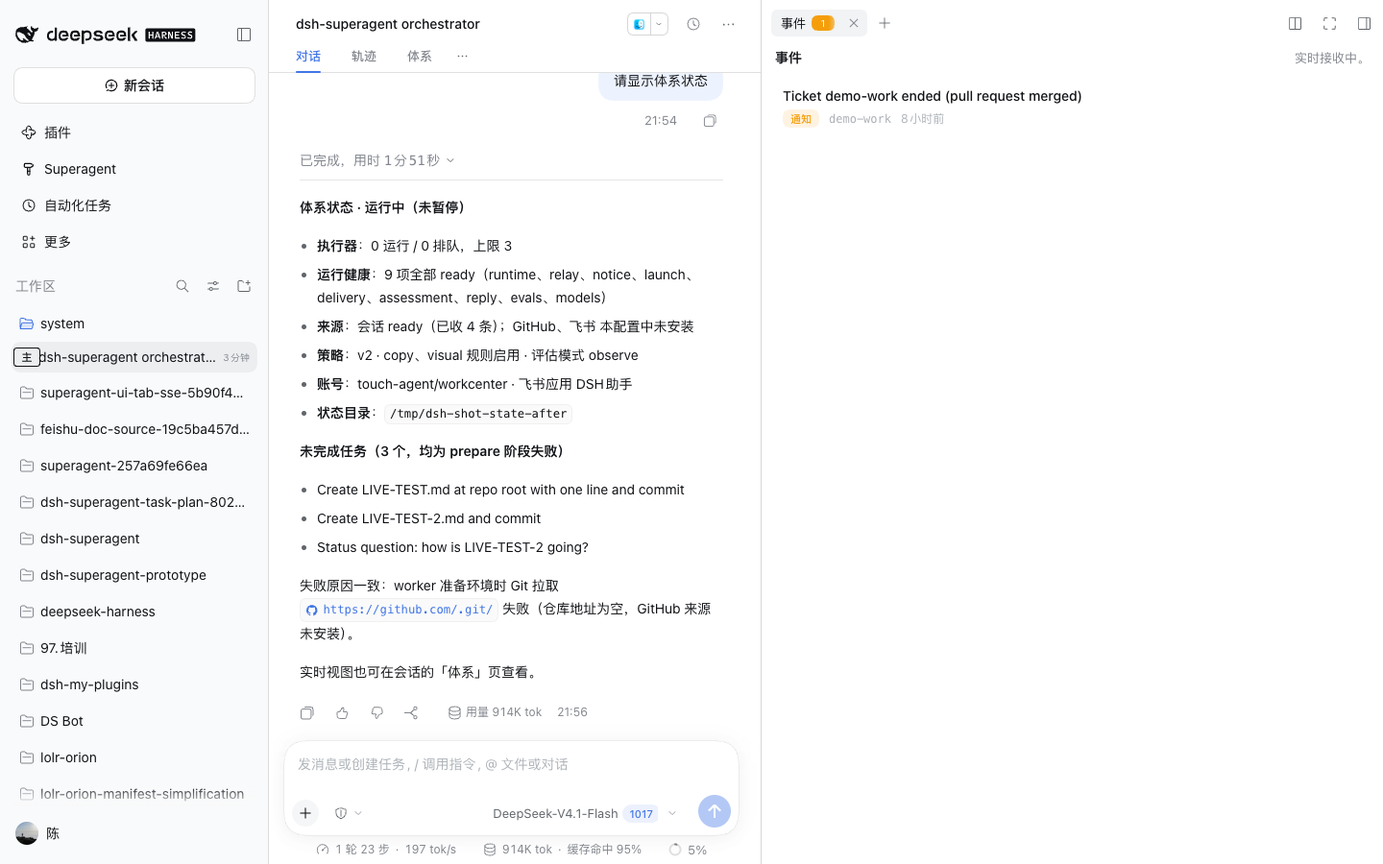
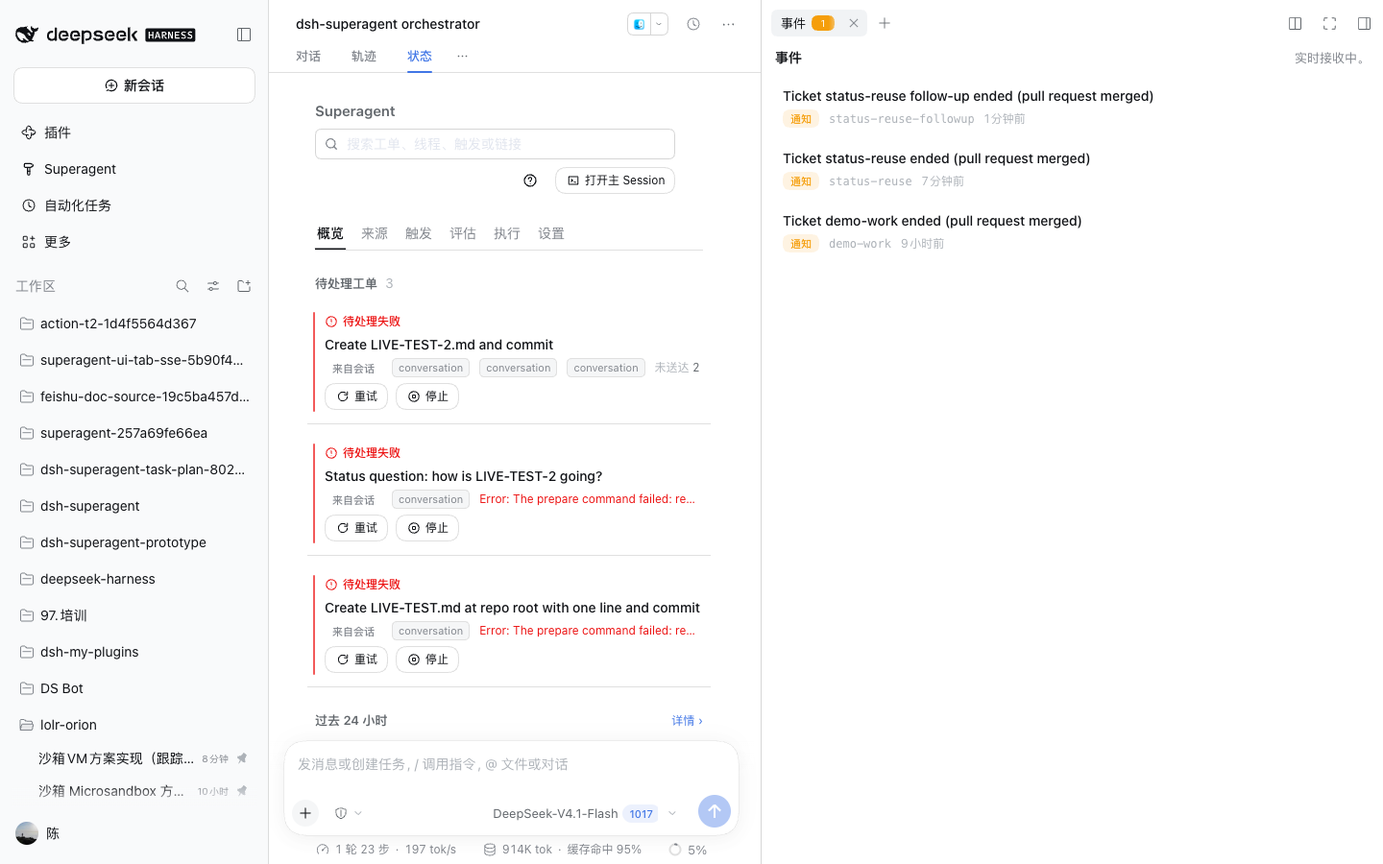
feat(ui): reuse the management page in the Status view
Rename the main-Session 体系 tab to 状态 and mount the existing
management page instead of a reduced read-only copy, so the
Conversation and the management panel cannot drift apart.

diff --git a/packages/dsh/src/client/system.tsx b/packages/dsh/src/client/system.tsx
@@ -1,24 +1,19 @@
 /**
- * Main-Session surfaces: the New Session entry that opens the existing main Session, the "主" row marker, the read-only
- * System view inside the Conversation, and the right Events tab with its unread title, automatic first open and rows.
- * All data is read from the management API; nothing here mutates a Ticket.
+ * Main-Session surfaces: the New Session entry that opens the existing main Session, the "主" row marker, the "状态"
+ * Conversation view that reuses the management page, and the right Events tab with its unread title, automatic first open
+ * and rows. All data comes from the management API the panel already uses.
  */
-import { useEffect, useState } from 'react'
+import { useEffect, useState, type ReactNode } from 'react'
 import type { ActivityRecord } from '../app/activity.ts'
-import type { Call, TicketRow } from './api.ts'
-import { usePoll } from './api.ts'
 import type { ActivityFeedClient, ActivitySnapshot } from './activity-feed.ts'
 import { useActivityFeed } from './activity-feed.ts'
-import { Button, Icon, Tag, StateDot, type DotState } from './controls.tsx'
+import { Button, Icon, Tag } from './controls.tsx'
 import type { MasterStore } from './master.ts'
 import { useMaster } from './master.ts'
-import { ticketMark } from './marks.ts'
 import type { Route } from './route.ts'
-import { healthText, valueLabel, when, fullTime, type T } from './text.ts'
-import { StageMark, Section } from './widgets.tsx'
+import { when, fullTime, type T } from './text.ts'
 
 const LEVEL_TONE = { quiet: 'outline', feed: 'info', notice: 'warning' } as const
-const HEALTH_DOT: Record<string, DotState> = { ready: 'done', starting: 'ongoing', paused: 'warning', error: 'error' }
 const openTicket = (id: string): Route => ({ page: 'execution', id })
 const openThread = (id: string): Route => ({ page: 'trigger', id })
 
@@ -114,70 +109,15 @@ export function EventsBridge({ activity, master, autoOpen, open }: { activity: A
   }, [autoOpen, open, sessionId, snapshot.unread])
   return null
 }
-function HealthLine({ name, state, detail, t }: { name: string; state: string; detail: string; t: T }) {
-  return <li className="dt-row dt-health" data-state={state}>
-    <StateDot state={HEALTH_DOT[state] ?? 'idle'} />
-    <span className="dt-health-name">{valueLabel(t, 'health', name)}</span>
-    <span className="dt-health-detail">{detail}</span>
-  </li>
-}
-function SystemTicket({ ticket, t, onOpen }: { ticket: TicketRow; t: T; onOpen: (route: Route) => void }) {
-  const status = ticketMark(t, ticket)
-  return <li className="dt-row dt-link dt-ticket dt-system-ticket" data-state={status.dot}>
-    <div className="dt-ticket-stage"><StageMark state={status.dot} icon={status.icon} label={status.label} /></div>
-    <div className="dt-ticket-body">
-      <div className="dt-row-title"><button type="button" className="dt-open" onClick={() => onOpen(openTicket(ticket.id))}>
-        {ticket.title}</button></div>
-      <div className="dt-row-meta"><Time at={ticket.updatedAt} t={t} /></div>
-    </div>
-  </li>
-}
 /**
- * The "体系" Conversation view. It is read-only and only meaningful on the main Session: every other Session sees a short
- * explanation of where the System view lives. Data comes from the same `GET state`, `GET tickets` and `GET activity`
- * endpoints the management panel uses, so no second business rule lives here.
+ * The "状态" Conversation view: on the main Session it mounts the existing management page rather than a second, partial
+ * management page; every other Session sees a short explanation of where the management page lives.
  */
-export function SystemView({ t, call, sessionId, master, activity, onOpen }: { t: T; call: Call; sessionId: string
-  master: MasterStore; activity: ActivityFeedClient; onOpen: (route: Route) => void }) {
+export function SystemView({ t, sessionId, master, children }: { t: T; sessionId: string; master: MasterStore
+  children: ReactNode }) {
   const identity = useMaster(master)
-  const state = usePoll(() => call('GET state'), [call], 5_000)
-  const tickets = usePoll(() => call('GET tickets', { query: { state: 'open', limit: 20 } }), [call], 5_000)
-  const feed = useActivityFeed(activity)
-  if (identity.masterId !== undefined && identity.masterId !== '' && identity.masterId !== sessionId) {
-    return <div className="dt-system-view"><p className="dt-hint">{t('systemOnlyMaster')}</p></div>
-  }
-  const health = Object.entries(state.data?.health ?? {}).sort(([left], [right]) => left.localeCompare(right))
-  const load = state.data?.load
-  return <div className="dt-system-view">
-    <header className="dt-system-head">
-      <div>
-        <h2 className="dt-system-title">{t('systemTitle')}</h2>
-        <p className="dt-hint">{t('systemIntro')}</p>
-      </div>
-      <Button variant="outline" size="sm" icon={<Icon name="external" size={14} />} onClick={() => onOpen({ page: 'overview' })}>
-        {t('systemOpenPanel')}</Button>
-    </header>
-    {state.error && <p className="dt-error" role="alert">{state.error.message}</p>}
-    <Section title={t('systemHealth')}>
-      {load && <div className="dt-stats">
-        <span className="dt-stat"><b>{load.running}</b>{t('executingLabel')}</span>
-        <span className="dt-stat"><b>{load.queued}</b>{t('queuedLabel')}</span>
-        <span className="dt-stat"><b>{load.maxWorkers}</b>{t('systemWorkers')}</span>
-        <span className="dt-stat"><b>{state.data?.paused ? t('yes') : t('no')}</b>{t('systemPaused')}</span>
-      </div>}
-      {health.length ? <ul className="dt-list dt-health-list">{health.map(([name, item]) => <HealthLine key={name} name={name}
-        state={item.state} detail={healthText(t, item)} t={t} />)}</ul> : <p className="dt-hint">{t('loading')}</p>}
-    </Section>
-    <Section title={t('systemTickets')} count={tickets.data?.items.length} action={<Button variant="ghost" size="sm"
-      onClick={() => onOpen({ page: 'execution' })}>{t('systemAllTickets')}</Button>}>
-      {tickets.data?.items.length ? <ul className="dt-list dt-system-tickets">{tickets.data.items.map(ticket => <SystemTicket
-        key={ticket.id} ticket={ticket} t={t} onOpen={onOpen} />)}</ul> : <p className="dt-hint">{tickets.error?.message
-        ?? (tickets.data ? t('systemNoTickets') : t('loading'))}</p>}
-    </Section>
-    <Section title={t('systemEvents')} action={<Button variant="ghost" size="sm" onClick={() => onOpen({ page: 'overview' })}>
-      {t('systemMoreEvents')}</Button>}>
-      <FeedHint snapshot={feed} t={t} />
-      <ActivityList items={feed.items.slice(0, 8)} t={t} onOpen={onOpen} empty={t('eventsEmpty')} />
-    </Section>
-  </div>
+  // Do not mount the management page for an ordinary Session while `masterId` is still unknown.
+  if (identity.masterId === undefined) return <div className="dt-system-view"><p className="dt-hint">{t('loading')}</p></div>
+  if (identity.masterId !== sessionId) return <div className="dt-system-view"><p className="dt-hint">{t('systemOnlyMaster')}</p></div>
+  return <div className="dt-status-page">{children}</div>
 }

diff --git a/packages/dsh/src/client/client.css b/packages/dsh/src/client/client.css
@@ -384,12 +384,11 @@ a.dt-btn, a.dt-btn:hover { text-decoration: none; }
 .dt-field-segmented { max-width: 240px; }
 .dt-master-badge { display: inline-flex; align-items: center; justify-content: center; min-width: 18px; height: 18px; padding: 0 4px; border: 0.5px solid var(--dsw-alias-brand-primary); border-radius: 4px; color: var(--dsw-alias-brand-primary); font-size: 11px; line-height: 18px; font-weight: 500; }
 .dt-master-attention { display: inline-flex; align-items: center; justify-content: center; width: 14px; height: 14px; margin-left: 4px; border-radius: 50%; background: var(--dsw-alias-state-error-primary); color: var(--dsw-alias-bg-layer-1); font-size: 10px; line-height: 14px; }
-.dt-system-view { box-sizing: border-box; height: 100%; overflow: auto; padding: 24px clamp(20px, 4vw, 40px) 48px; display: flex; flex-direction: column; gap: 20px; color: var(--dsw-alias-label-primary); }
+.dt-system-view { box-sizing: border-box; height: 100%; overflow: auto; padding: 24px clamp(20px, 4vw, 40px) 48px; color: var(--dsw-alias-label-primary); }
 .dt-system-view > * { width: 100%; max-width: 960px; margin: 0 auto; }
-.dt-system-head { display: flex; align-items: flex-start; justify-content: space-between; flex-wrap: wrap; gap: 8px 16px; }
-.dt-system-title { margin: 0 0 2px; font-size: 15px; line-height: 22px; font-weight: 600; }
-.dt-system-tickets { margin: 0; }
-.dt-system-ticket .dt-ticket-stage { padding-top: 1px; }
+/* The reused management page owns its scroll and padding; this wrapper only gives it the Conversation's height. */
+.dt-status-page { box-sizing: border-box; height: 100%; min-height: 0; }
+.dt-status-page > .dt-page { height: 100%; }
 .dt-events-tab { box-sizing: border-box; height: 100%; overflow: auto; padding: 12px 14px 24px; display: flex; flex-direction: column; gap: 10px; }
 .dt-events-head { display: flex; align-items: baseline; justify-content: space-between; gap: 8px; flex-wrap: wrap; }
 .dt-events-title { margin: 0; font-size: 14px; line-height: 20px; font-weight: 600; }
@@ -398,9 +397,4 @@ a.dt-btn, a.dt-btn:hover { text-decoration: none; }
 .dt-activity-list { margin: 0; }
 .dt-activity .dt-row-title { font-weight: 400; }
 .dt-activity[data-level='notice'] .dt-row-title { font-weight: 500; }
-.dt-health-list { margin: 0; }
-.dt-health { display: grid; grid-template-columns: 12px max-content minmax(0, 1fr); align-items: center; gap: 8px; padding: 6px 8px; border-bottom: 0.5px solid var(--dsw-alias-border-l3); }
-.dt-health:last-child { border-bottom: 0; }
-.dt-health-name { font-size: 12px; line-height: 18px; font-weight: 500; color: var(--dsw-alias-label-secondary); }
-.dt-health-detail { min-width: 0; font-size: 12px; line-height: 18px; color: var(--dsw-alias-label-caption); overflow-wrap: anywhere; }
 .dt-stat b { font-size: 14px; font-weight: 500; color: var(--dsw-alias-label-primary); font-variant-numeric: tabular-nums; }

diff --git a/packages/dsh/src/client/locales.ts b/packages/dsh/src/client/locales.ts
@@ -102,21 +102,10 @@ const TEXT = {
   openMaster: ['打开主 Session', 'Open main Session'],
   masterSession: ['主会话', 'Main Session'],
   masterBadge: ['主', 'Main'],
-  masterBadgeHint: ['这是每个进程唯一的主会话，体系视图与事件都跟随它。', 'The one main Session per process; the System view and Events follow it.'],
+  masterBadgeHint: ['这是每个进程唯一的主会话，状态页与事件都跟随它。', 'The one main Session per process; the Status page and Events follow it.'],
   masterEntryHint: ['打开已有的主会话，不新建会话。', 'Open the existing main Session instead of starting another.'],
-  systemTab: ['体系', 'System'],
-  systemTitle: ['体系', 'The system'],
-  systemIntro: ['整个体系的状态、工单与最近事件；只读，改动仍在管理页完成。', 'This system’s health, Tickets and recent events. Read-only; changes stay in the management panel.'],
-  systemOnlyMaster: ['体系视图只在主会话中显示；普通会话没有整个体系的上下文。', 'The System view is available in the main Session; an ordinary Session has no view of the whole system.'],
-  systemOpenPanel: ['打开管理页', 'Open management panel'],
-  systemHealth: ['运行健康', 'Runtime health'],
-  systemWorkers: ['执行器上限', 'Executor limit'],
-  systemPaused: ['已暂停', 'Paused'],
-  systemTickets: ['进行中的工单', 'Open Tickets'],
-  systemAllTickets: ['全部工单', 'All Tickets'],
-  systemNoTickets: ['暂无进行中的工单。', 'No open Tickets.'],
-  systemEvents: ['最近事件', 'Recent events'],
-  systemMoreEvents: ['查看全部事件', 'All events'],
+  systemTab: ['状态', 'Status'],
+  systemOnlyMaster: ['状态页只在主会话中显示；普通会话没有整个体系的上下文。', 'The Status page is available in the main Session; an ordinary Session has no view of the whole system.'],
   eventsTab: ['事件', 'Events'],
   eventsGuide: ['按时间查看体系里发生了什么，以及哪些工单在等人工决定。', 'Follow what happened in the system and which Tickets wait for a person.'],
   eventsUnread: ['{count} 条未读通知级事件', '{count} unread notice-level events'],

diff --git a/packages/dsh/src/client/index.tsx b/packages/dsh/src/client/index.tsx
@@ -1,6 +1,6 @@
 /**
  * Browser plugin entry point: the sidebar icon and management panel, the New Session main-Session entry, the in-Session
- * System view, the right Events tab with its unread title, and the Plugin Manager config view.
+ * Status view that reuses the management page, the right Events tab with its unread title, and the Plugin Manager config view.
  */
 import { useCallback, useEffect, useRef } from 'react'
 import type { Context } from '@deepseek-ai/cordis'
@@ -80,10 +80,10 @@ export function apply(ctx: ClientContext): void {
   // rc.5's row exposes a leading decoration; a trailing badge is not part of this host version.
   ctx.slots.inject('sidebar.session.row.leading', () => ctx.slots.register({ name: 'sidebar.session.row.leading', id: 'system-master', order: 10,
     locale: NS }, (props: { sessionId: string; t: T }) => <MasterBadge t={props.t} master={master} sessionId={props.sessionId} />))
-  // The in-Session System view; non-main Sessions render its explanation instead of the system.
+  // The in-Session Status view reuses the management page; non-main Sessions render its explanation instead.
   ctx.slots.inject('conversation.view', () => ctx.slots.register({ name: 'conversation.view', id: 'system', order: 20, locale: NS,
-    label: () => t('systemTab') }, (props: { sessionId: string; t: T }) => <SystemView t={props.t} call={call} sessionId={props.sessionId}
-    master={master} activity={activity} onOpen={openPanel} />))
+    label: () => t('systemTab') }, (props: { sessionId: string; t: T }) => <SystemView t={props.t} sessionId={props.sessionId}
+    master={master}><Mounted ctx={ctx} t={props.t} openSession={openSession} /></SystemView>))
   // The right Events tab type: the host owns closing, expanding, floating and docking.
   try {
     ctx.effect(() => ctx.get('sidebarRightTabs')?.register({ id: EVENTS_ID, kind: EVENTS_KIND, title: () => t('eventsTab'),

diff --git a/tests/client.spec.tsx b/tests/client.spec.tsx
@@ -177,17 +177,18 @@ it('marks the main Session row and leaves every other row unmarked', async () =>
   expect(other.container.querySelector('.dt-master-badge')).toBeNull()
   other.dispose()
 })
-it('renders the read-only System view only for the main Session', async () => {
+it('reuses the management page only for the main Session', async () => {
   serve()
   const { entries } = fixture([])
   const system = entries.find(entry => entry.options.name === 'conversation.view')!
+  expect(system.options.label?.()).toBe(zh.systemTab)
   const master = await render(system, { sessionId: 'master', t })
-  expect(master.container.textContent).toContain(zh.systemTitle)
-  expect(master.container.textContent).toContain(zh.systemHealth)
+  expect(master.container.textContent).toContain(zh.title)
+  expect(master.container.textContent).toContain(zh['tab.overview'])
   master.dispose()
   const other = await render(system, { sessionId: 'other', t })
   expect(other.container.textContent).toContain(zh.systemOnlyMaster)
-  expect(other.container.textContent).not.toContain(zh.systemHealth)
+  expect(other.container.textContent).not.toContain(zh.title)
   other.dispose()
 })
 it('shows the unread notice count in the Events tab title and clears it when the tab opens', async () => {

diff --git a/packages/dsh/src/client/activity-feed.ts b/packages/dsh/src/client/activity-feed.ts
@@ -1,6 +1,6 @@
 /**
  * Same-origin reader for the graded activity feed: one initial page, then Server-Sent Events with a polling fallback,
- * deduplicated by sequence and shared by the right Events tab and the in-Session System view. The unread cursor is the
+ * deduplicated by sequence and shared by the right Events tab and the in-Session Status page. The unread cursor is the
  * last notice-level sequence a person saw; opening the Events tab marks the head seen and persists it per browser.
  */
 import { useEffect, useSyncExternalStore } from 'react'

diff --git a/packages/dsh/src/client/master.ts b/packages/dsh/src/client/master.ts
@@ -1,4 +1,4 @@
-/** Shared read-only main-Session identity, so the entry, row marker, System view and Events tab agree on `masterId`. */
+/** Shared read-only main-Session identity, so the entry, row marker, Status page and Events tab agree on `masterId`. */
 import { useEffect, useSyncExternalStore } from 'react'
 import type { Call } from './api.ts'
 

diff --git a/SESSION-ENTRY.zh.md b/SESSION-ENTRY.zh.md
@@ -14,7 +14,7 @@
 | 需求 | 宿主能力 | 结论 |
 | --- | --- | --- |
 | 新建时选「主会话 / 普通会话」 | `conversation.hero.options`（list，New Session 行右侧）+ `ctx.uiWorkspace.openSession/startSession` | **可做**：选项打开既有主会话，不新建；普通会话走宿主默认新建 |
-| 主会话 tab 内看整个体系 | `conversation.view`（list，会话内 tab）+ 现成管理 API/面板 | **可做**：只对主会话注册「体系」视图 |
+| 主会话 tab 内看整个体系 | `conversation.view`（list，会话内 tab）+ 现成管理 API/面板 | **可做**：只对主会话注册「状态」页，直接挂载现成管理页 |
 | 右侧实时事件与工单状态 | `sidebar.right.pane.tab` + `.title` + `ctx.sidebarRight.openTab/close/toggleExpanded` | **可做**：注册「事件」tab，宿主自带关闭/展开 |
 | 服务端推送 | `ctx.webServer.register`（`exact` 路由，handler 持有响应） | **可做**：SSE；首版用 5 秒轮询即可 |
 
@@ -55,7 +55,7 @@
 ### 2.2 会话内 tab
 
 - `conversation.view`：`kind: 'list'`，会话级；注册后宿主的 ViewTab 由 `{id,label}` 投影，正文由 slot entry 渲染。已有 `ui-chat`、`ui-trajectory` 两个第三方视图先例。
-- 视图组件能读到当前 `sessionId`；据此只对 `masterId` 渲染体系内容，其他会话显示一句说明或不显示。
+- 视图组件能读到当前 `sessionId`；据此只对 `masterId` 渲染状态内容，其他会话显示一句说明或不显示。
 
 **限制**：tab 属于「会话」，不是「主面板」；不能把现有主面板原样嵌进去，需要复用它的数据/组件而不是整个入口。
 
@@ -87,7 +87,7 @@
 | --- | --- |
 | `conversation.hero.options` 不可用 | 侧栏会话行「主」标记 + 主面板顶部「打开主会话」按钮 |
 | `conversation.view` 不可用 | 保留独立主面板；主会话页内只放一个跳转按钮 |
-| `sidebar.right.pane.tab` 不可用 | 在「体系」视图内用右侧分栏自绘事件列表（仍可关闭/展开） |
+| `sidebar.right.pane.tab` 不可用 | 在「状态」页内用右侧分栏自绘事件列表（仍可关闭/展开） |
 | SSE 不可用 | `GET activity?after=` 5 秒轮询；断线重连后按 `next` 补拉，`next < latest` 时继续拉 |
 | 主会话已存在于旧工作目录 | 不强行迁移；保留原 cwd，新建的主会话才用新根（DSH 会话持久化 cwd） |
 
@@ -112,19 +112,19 @@
 
 ### 3.2 主会话入口
 
-1. 启动时确保主会话存在（已有逻辑），并把它作为「体系入口」。
+1. 启动时确保主会话存在（已有逻辑），并把它作为「状态入口」。
 2. `conversation.hero.options` 注册一项「主会话」：点击 `ctx.uiWorkspace.openSession(masterId)`；若主会话尚未就绪，先显示禁用态。
 3. `sidebar.session.row.trailing` 在主会话行显示「主」标记，普通会话不显示。
 4. 主面板保留「打开主会话」按钮，作为宿主 slot 失效时的回退。
 5. 「普通会话」不新增入口，沿用宿主 New Session；插件不干预普通会话的 preset。
 
-### 3.3 主会话页内「体系」视图
+### 3.3 主会话页内「状态」页
 
-- `conversation.view` 注册 `{id:'system', label:{zh:'体系',en:'System'}}`。
-- 内容分三块：运行健康（Overview）、工单列表（复用 `GET tickets` 的紧凑行）、最近事件（`GET activity?level=feed`）。
-- 只读；写操作仍然回到既有主面板/设置页，避免两套交互。
-- 视图只在 `sessionId === masterId` 时渲染；其他会话显示「这是普通会话，体系视图只在主会话可用」。
-- 实现上抽一个 `SystemView` 组件，主面板与页内视图共用数据 hooks，不复制业务规则。
+- `conversation.view` 注册 `{id:'system', label:{zh:'状态',en:'Status'}}`。
+- 内容直接挂载现成管理页（`App`）：同一套 header、搜索、概览/来源/触发/评估/执行/设置和操作，不另做一份精简视图，也不复制业务规则。
+- 页内与管理页是同一实现；写操作与面板一致，不再有「页内只读」的第二套交互。
+- 只在 `sessionId === masterId` 时渲染；其他会话显示「这是普通会话，状态页只在主会话可用」。
+- `SystemView` 只负责主会话判断和外层高度，内容仍由管理页组件提供。
 
 ### 3.4 右侧「事件」栏
 
@@ -181,7 +181,7 @@ domain event ──► ActivityLog（全部入库）
 | S-02 | 单一通知预算：`endCoveredBy` 接入 `eventNotice`，更新报告相关测试 | 0.5 | **本 PR 完成** |
 | S-03 | 目录分级：`systemRoot`、默认 `<stateDir>/system/work`、启动创建、设置文案/文档 | 1 | **本 PR 完成** |
 | S-04 | 主会话入口：hero option + 会话行标记 + `openSession` + 回退按钮 | 2 | **本 PR 完成** |
-| S-05 | 页内「体系」视图：`conversation.view`、仅主会话、复用数据 hooks | 3 | **本 PR 完成** |
+| S-05 | 页内「状态」页：`conversation.view`、仅主会话、直接复用管理页 | 3 | **本 PR 完成** |
 | S-06 | 右侧「事件」栏：tab + 未读标题 + 轮询 + 自动打开一次 | 3 | **本 PR 完成** |
 | S-07 | SSE 推送：exact 路由、`Last-Event-ID` 补拉、心跳、同源校验 | 1.5 | **本 PR 完成** |
 | S-08 | 端到端与宿主版本矩阵：slot 存在性守卫、截图/演示、操作手册 | 2 | **本 PR 完成**（截图见 `docs/images/session-entry/`） |
@@ -196,7 +196,7 @@ domain event ──► ActivityLog（全部入库）
 | --- | --- | --- |
 | `conversation.hero.options` | 新建会话行右侧「主会话」按钮 | `slots.inject` 静默跳过；面板头部「打开主会话」回退按钮仍在 |
 | `sidebar.session.row.leading` | 会话行「主」标记 | 无标记；主会话仍可从入口打开 |
-| `conversation.view` | 主会话页内「体系」只读视图 | 管理面板 Overview 继续提供同一数据 |
+| `conversation.view` | 主会话页内「状态」页，直接复用管理页 | 管理面板仍提供同一页面 |
 | `sidebar.right.pane.tab` / `.title` | 右侧「事件」tab 与未读标题 | 无事件栏；页内视图仍显示最近事件 |
 | `conversation.session.header.utilities` | 无渲染的自动打开桥 | 不自动打开，仍可从右侧栏手动打开 |
 
@@ -213,7 +213,7 @@ SSE 是 `GET /orchestrator/api/activity/stream` 的 exact 路由：`Last-Event-I
 ## 5. 验收
 
 1. **入口**：从 New Session 选「主会话」打开的是既有 `masterId`；连续点两次不产生第二个 router 会话；普通会话仍可正常新建。
-2. **页内视图**：主会话有「体系」tab，能看到健康/工单/最近事件；普通会话没有该内容或显示说明。
+2. **页内视图**：主会话有「状态」tab，直接显示完整 Superagent 管理页（概览/来源/触发/评估/执行/设置）；普通会话没有该内容或显示说明。
 3. **右侧栏**：主会话右侧出现「事件」tab，可关闭、可展开；新 `notice` 事件使未读数 +1；打开后清零。
 4. **推送**：轮询模式下 5 秒内可见新事件；断线后按 `next` 补拉不漏（`next === latest` 才算追平）；SSE 模式同样。
 5. **目录**：新装默认主会话 cwd 为 `<stateDir>/system`，新工单目录为 `<stateDir>/system/work/<name>`；已有工单目录不变；显式根覆盖生效。
@@ -242,6 +242,6 @@ SSE 是 `GET /orchestrator/api/activity/stream` 的 exact 路由：`Last-Event-I
 - `packages/dsh/src/app/assembly.ts`：emit 时入库；`eventNotice` 用预算。
 - `packages/dsh/src/app/http.ts`、`api.ts`：`GET activity` 与 SSE `GET activity/stream`。
 - `packages/dsh/src/app/execution-environment.ts`、`runtime.ts`：`systemRoot`、主会话 cwd、默认工单根。
-- `packages/dsh/src/client/{index.tsx,system.tsx,activity-feed.ts,master.ts,panel.ts}`：主会话入口、体系视图、事件栏、SSE/轮询客户端。
+- `packages/dsh/src/client/{index.tsx,system.tsx,activity-feed.ts,master.ts,panel.ts}`：主会话入口、复用管理页的状态视图、事件栏、SSE/轮询客户端。
 - `tests/activity.spec.ts`、`tests/http.spec.ts`、`tests/activity-feed.spec.ts`、`tests/client.spec.tsx` 与报告/目录/迁移相关断言。
 - 本文与 `TASK-PLAN.zh.md` §10.2、`docs/003`、`docs/005`、`docs/006`、`docs/007`。

diff --git a/docs/005-panel.md b/docs/005-panel.md
@@ -43,11 +43,11 @@ Only the latest message from the person is dispatched. A message that arrived fr
 
 ### Main-Session surfaces
 
-The main Session is the process's single router Session. Four surfaces make it the entry to the system without turning the Conversation into a second management panel:
+The main Session is the process's single router Session. Four surfaces make it the entry to the system; the Status tab reuses the management page itself so the two cannot drift apart:
 
 - **New Session → Main Session.** The right side of the New Session composer offers **Main Session** (主会话), which selects the existing `masterId` through the Workspace. It never starts another router Session; using it twice returns to the same Conversation. If the Session catalog is not ready, the control disables itself and reports why. The management panel keeps its own **Open main Session** header button as a fallback.
 - **The main Session row** carries a compact **Main** (主) badge in its leading decoration. DSH `0.2.1-rc.5` has no trailing decoration on Session rows, so the badge is leading rather than trailing.
-- **System** (体系) is a tab inside the main Conversation. It is read-only and shows runtime health, open Tickets and the latest graded events, each linking into the matching management page. Opening a link selects the management panel at that route. Any other Session shows one sentence explaining that the System view belongs to the main Session.
+- **Status** (状态) is a tab inside the main Conversation. It mounts the existing management page itself — the same header, search, tabs (Overview, Sources, Triggers, Eval, Execution, Settings) and actions as the sidebar panel — rather than a reduced second view. Any other Session shows one sentence explaining that the Status page belongs to the main Session.
 - **Events** (事件) is a right-pane tab. Its title shows the number of unread `notice`-level events; opening the tab marks the current head seen and persists the cursor in this browser. The tab opens automatically once, when the first unread notice reaches the main Session; later opening and closing stay manual. Rows link to their Ticket or Thread. The tab uses the same-origin SSE stream and falls back to five-second cursor polling when the stream is unavailable; a notice whose result was already relayed by a report stays in the feed without counting as unread.
 
 These surfaces depend on host seats introduced by `0.2.1-rc.5` (`conversation.hero.options`, `conversation.view`, `sidebar.session.row.leading`, `sidebar.right.pane.tab` and its title, and `conversation.session.header.utilities`). Registration runs through `slots.inject`, so a host that does not declare a seat omits that surface and keeps the management panel; nothing throws and no second data path is created.
@@ -55,10 +55,10 @@ These surfaces depend on host seats introduced by `0.2.1-rc.5` (`conversation.he
 | Surface | Before | After |
 | --- | --- | --- |
 | Main-Session entry in New Session | ![Before](images/session-entry/before-master-entry.png) | ![After](images/session-entry/after-master-entry.png) |
-| System view in the main Conversation | ![Before](images/session-entry/before-system-view.png) | ![After](images/session-entry/after-system-view.png) |
+| Status page (reused management page) in the main Conversation | ![Before](images/session-entry/before-status-view.png) | ![After](images/session-entry/after-status-view.png) |
 | Events tab with unread title | ![Before](images/session-entry/before-events-tab.png) | ![After](images/session-entry/after-events-tab.png) |
 
-Captured on DSH `0.2.1-rc.5`, same 1440×900 viewport and light theme; the Before column is the host Conversation without this plugin's surface, the After column is this plugin installed, and the Events capture adds one unread notice.
+Captured on DSH `0.2.1-rc.5`, same 1440×900 viewport and light theme. For the entry and Events rows, Before is the host without this plugin's surface and After is this branch. For Status, Before is revision `c18d8a6`, where 体系 was a reduced read-only view, and After is this branch's 状态 page, which mounts the existing management page. The Events capture adds one unread notice.
 
 ### Health figures
 

diff --git a/TASK-PLAN.zh.md b/TASK-PLAN.zh.md
@@ -444,7 +444,7 @@ graph LR
 | S-02 | 单一通知预算：`endCoveredBy` 接入 `eventNotice`；`ready`/`dropped`/人自己停止的结束降级为 feed | 0.5 | S-01 |
 | S-03 | 目录分级：`<stateDir>/system` 为主会话根、默认工单根 `<stateDir>/system/work`、启动创建与文案 | 1 | 无 |
 | S-04 | 主会话入口：`conversation.hero.options` 打开既有 `masterId`、会话行「主」标记、面板回退按钮 | 2 | S-03 |
-| S-05 | 页内「体系」视图：`conversation.view` 仅主会话渲染，复用 Overview/工单/事件数据 hooks，只读 | 3 | S-01 |
+| S-05 | 页内「状态」页：`conversation.view` 仅主会话渲染，直接复用现成 Superagent 管理页 | 3 | S-01 |
 | S-06 | 右侧「事件」栏：`sidebar.right.pane.tab` + 未读标题、首屏/增量轮询、首次 notice 自动打开一次 | 3 | S-01、S-05 |
 | S-07 | SSE：exact 路由 `GET activity/stream`、`Last-Event-ID` 补拉、心跳、同源校验 | 1.5 | S-06 |
 | S-08 | 端到端与版本矩阵：slot 守卫、目录/通知验收、截图与操作手册 | 2 | S-04…S-07 |
@@ -454,14 +454,14 @@ graph LR
 **验收（M1.6 出口）**：
 
 1. New Session 选「主会话」打开既有单例，不新建第二个 router 会话；普通会话不受影响。
-2. 主会话页内有「体系」tab（健康、工单、最近事件）；右侧「事件」tab 可关闭/展开，未读数随新事件变化。
+2. 主会话页内有「状态」tab（完整 Superagent 管理页）；右侧「事件」tab 可关闭/展开，未读数随新事件变化。
 3. 新装默认主会话 cwd 为 `<stateDir>/system`，新工单目录为 `<stateDir>/system/work/<短名>`；已有工单目录不迁移。
 4. 一个 `ready` 结果只产生一条通知；结束事件仍在事件栏可见；`blocked` 后的外部结束仍有通知。
 5. 全量 typecheck / tests / build 绿；schema 12 库可升 13。
 
 **进度（2026-11-07）**：S-01、S-02、S-03 已实现（`activity` 表与 `GET activity`、`endCoveredBy` 预算、`systemRoot`/默认工单根），
-测试覆盖分级、游标、保留窗口、通知去重与目录断言。S-04…S-08 已实现：主会话入口、页内「体系」、右侧「事件」、SSE 与轮询回退、
-宿主 rc.5 slot 守卫与操作手册；测试覆盖入口、标记、只读视图、未读标题、自动打开、SSE 游标/同源/心跳路径和客户端断线补拉。
+测试覆盖分级、游标、保留窗口、通知去重与目录断言。S-04…S-08 已实现：主会话入口、页内「状态」页（复用管理页）、右侧「事件」、SSE 与轮询回退、
+宿主 rc.5 slot 守卫与操作手册；测试覆盖入口、标记、管理页复用、未读标题、自动打开、SSE 游标/同源/心跳路径和客户端断线补拉。
 
 ---
 

diff --git a/docs/007-architecture.md b/docs/007-architecture.md
@@ -398,10 +398,10 @@ The domain kernel is the workspace package `packages/kernel` (`@superagent/kerne
 | `packages/dsh/src/sources/feishu-doc-read.ts` | The comment and reply reads of a document, and `feishuDocThreadContext`, which gives a comment card to assessments |
 | `packages/dsh/src/sources/feishu-doc-channel.ts` | The Feishu document comment Channel: one reply per outbound message, `sent` or `gone` |
 | `packages/dsh/src/sources/feishu-doc-loops.ts` | The Feishu document loop: polling each document's new comment replies, document titles, and subscribed comment cards |
-| `packages/dsh/src/client/index.tsx` | The client plugin entry: the sidebar entry, the main panel, the main-Session entry and row badge, the System view, the Events tab and the page in DeepSeek Harness's Plugin Manager |
-| `packages/dsh/src/client/master.ts` | The shared read-only main-Session identity that the entry, row badge, System view and Events tab follow, with one poller for all of them |
+| `packages/dsh/src/client/index.tsx` | The client plugin entry: the sidebar entry, the main panel, the main-Session entry and row badge, the Status view that reuses the management page, the Events tab and the page in DeepSeek Harness's Plugin Manager |
+| `packages/dsh/src/client/master.ts` | The shared read-only main-Session identity that the entry, row badge, Status page and Events tab follow, with one poller for all of them |
 | `packages/dsh/src/client/activity-feed.ts` | The same-origin activity reader: first page, SSE with a cursor-polling fallback, dedupe by sequence, unread notice count and the persisted last-seen cursor |
-| `packages/dsh/src/client/system.tsx` | The main-Session surfaces: the New Session entry, the row badge, the read-only System view, the Events tab and title, and the first-notice auto-open bridge |
+| `packages/dsh/src/client/system.tsx` | The main-Session surfaces: the New Session entry, the row badge, the Status gate around the reused management page, the Events tab and title, and the first-notice auto-open bridge |
 | `packages/dsh/src/client/panel.ts` | Selects the management panel at a route requested by a Conversation surface, remembering it for a panel that mounts later |
 | `packages/dsh/src/client/styles.ts` | Installs the plugin stylesheet in the document head so surfaces outside the management panel share its tokens and classes |
 | `packages/dsh/src/client/app.tsx` | The panel: header, search, glossary, tabs and the page of the current route |

diff --git a/.changeset/session-surfaces.md b/.changeset/session-surfaces.md
@@ -2,4 +2,4 @@
 '@superagent/dsh': minor
 ---
 
-Add the main-Session entry, the read-only System view inside the main Conversation, and the right Events tab with unread notices, plus a Server-Sent Events stream at `GET activity/stream` for incremental delivery. The entry opens the existing `masterId` instead of creating another router Session; the Events tab falls back to cursor polling when the stream is unavailable. Host development and peer baselines move to `0.2.1-rc.5`, and every surface is registered through `slots.inject`, so a host that lacks a seat keeps the management panel and simply omits that surface.
+Add the main-Session entry, the Status view inside the main Conversation, which reuses the management page, and the right Events tab with unread notices, plus a Server-Sent Events stream at `GET activity/stream` for incremental delivery. The entry opens the existing `masterId` instead of creating another router Session; the Events tab falls back to cursor polling when the stream is unavailable. Host development and peer baselines move to `0.2.1-rc.5`, and every surface is registered through `slots.inject`, so a host that lacks a seat keeps the management panel and simply omits that surface.
